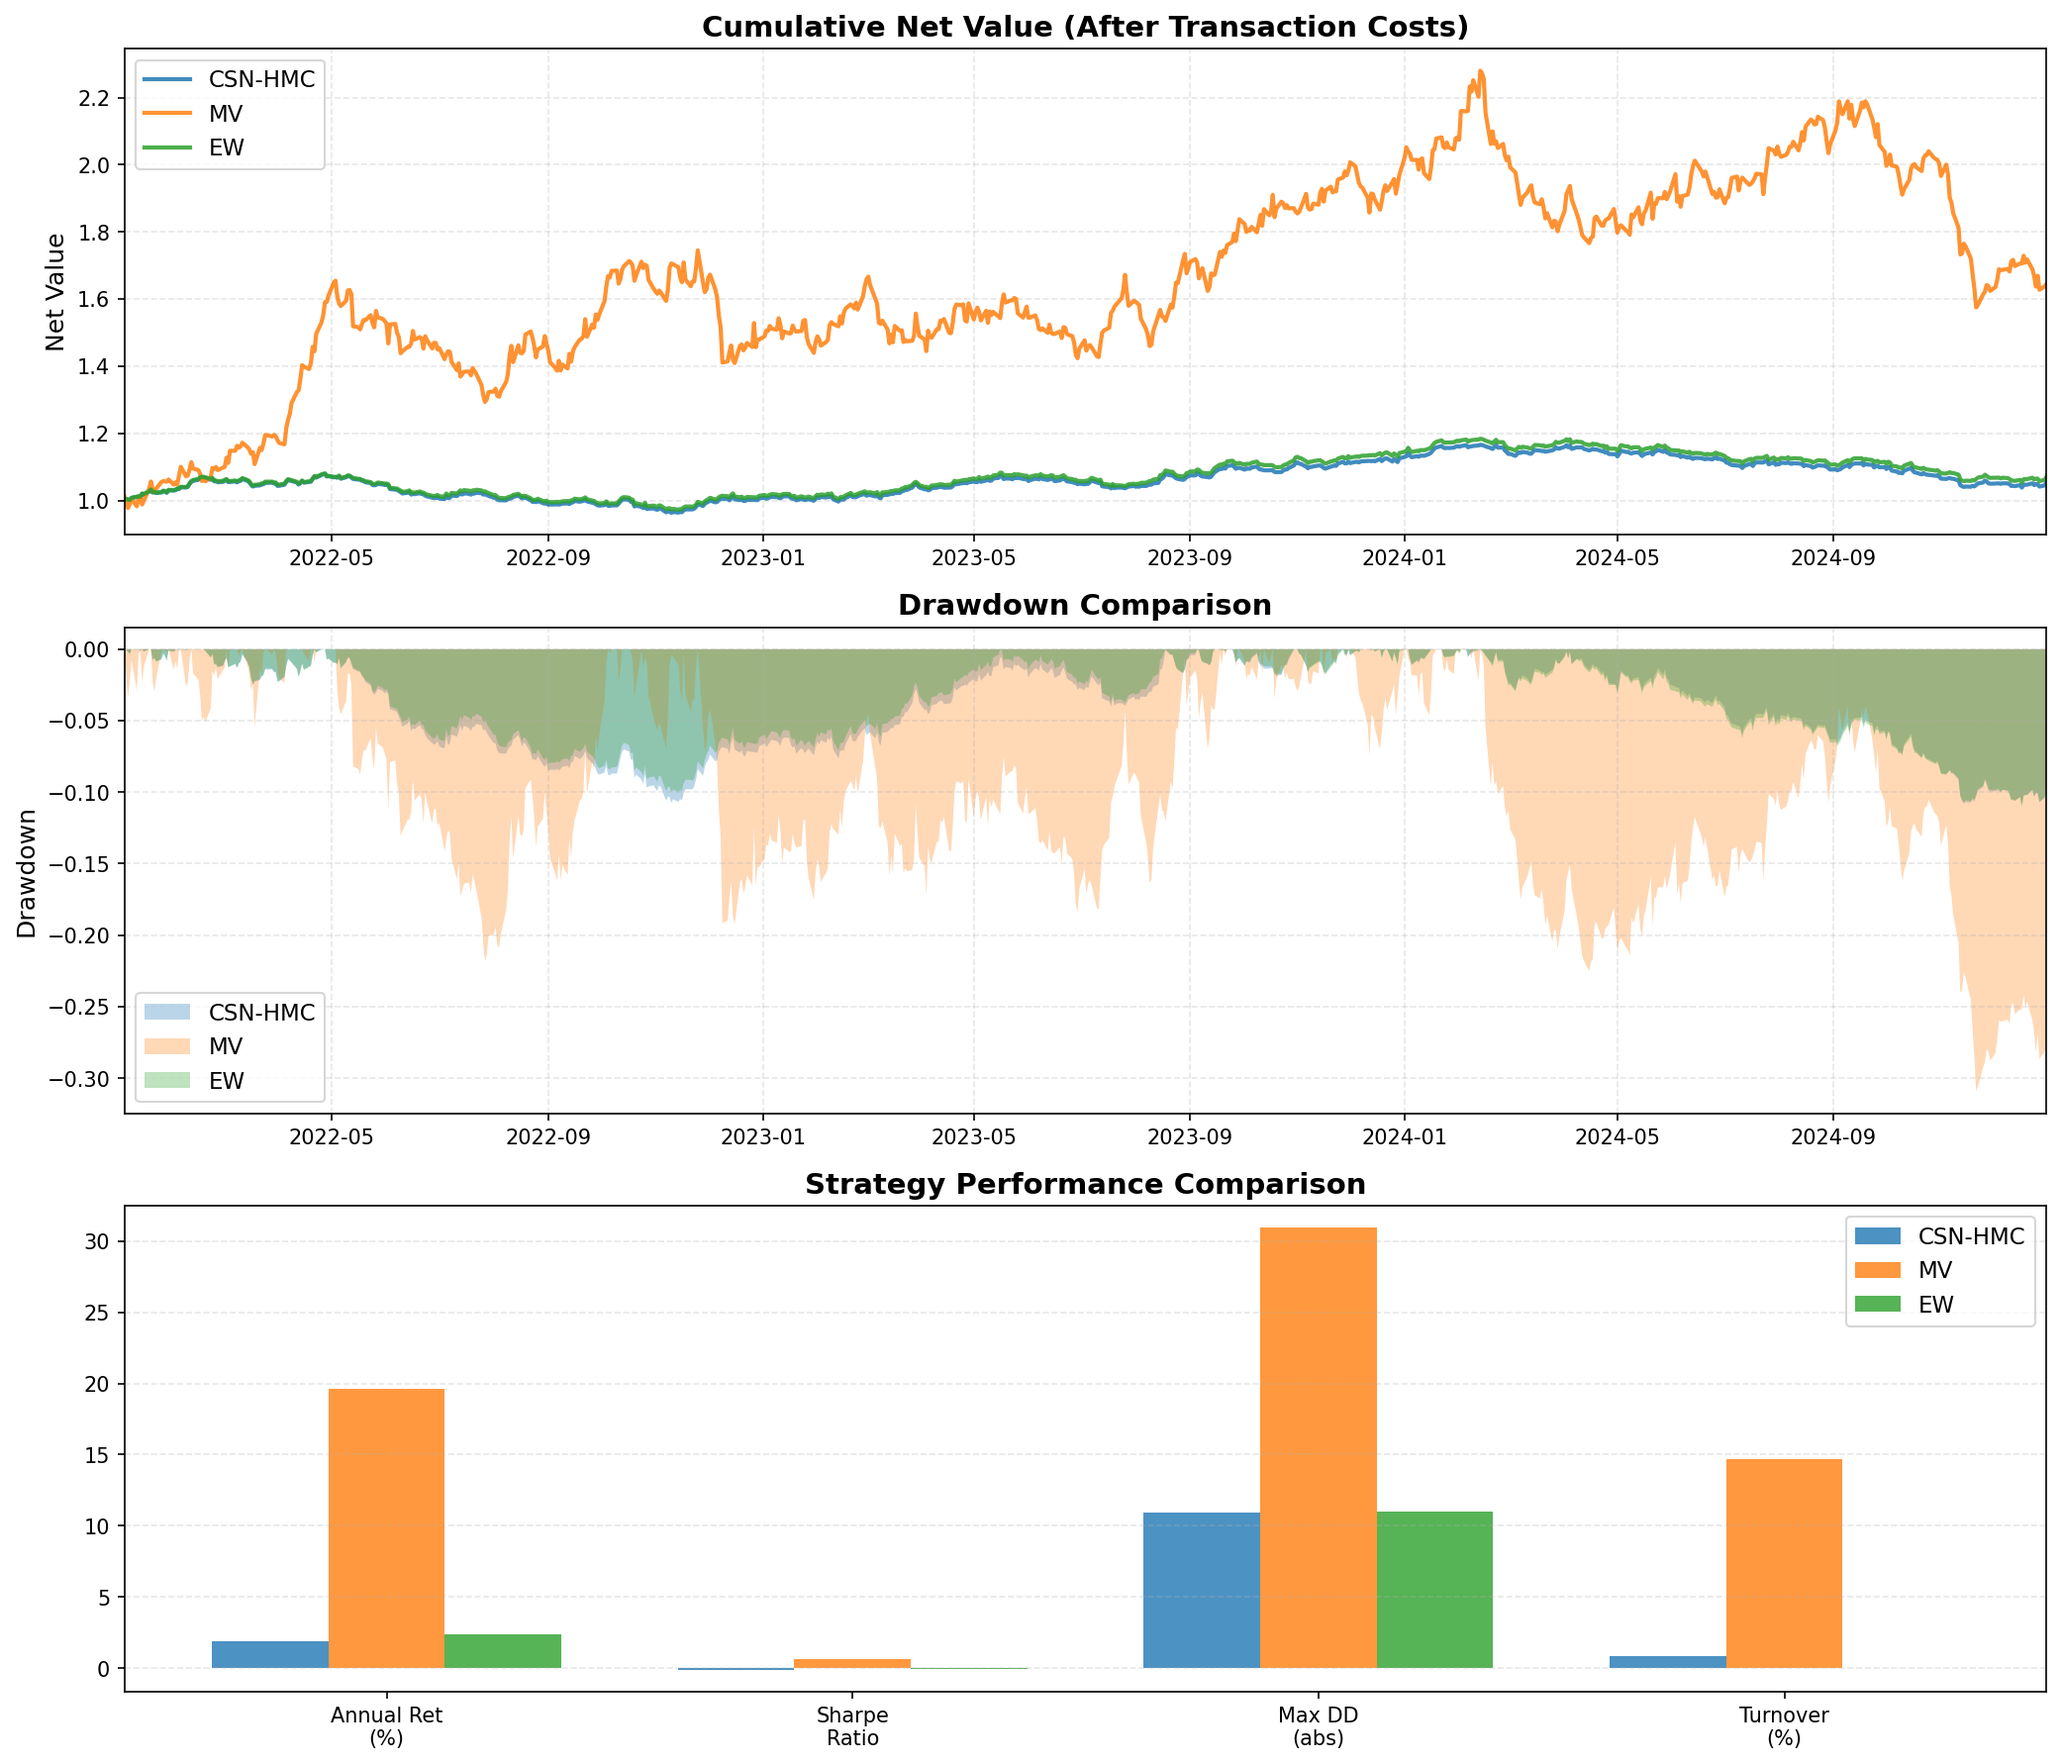
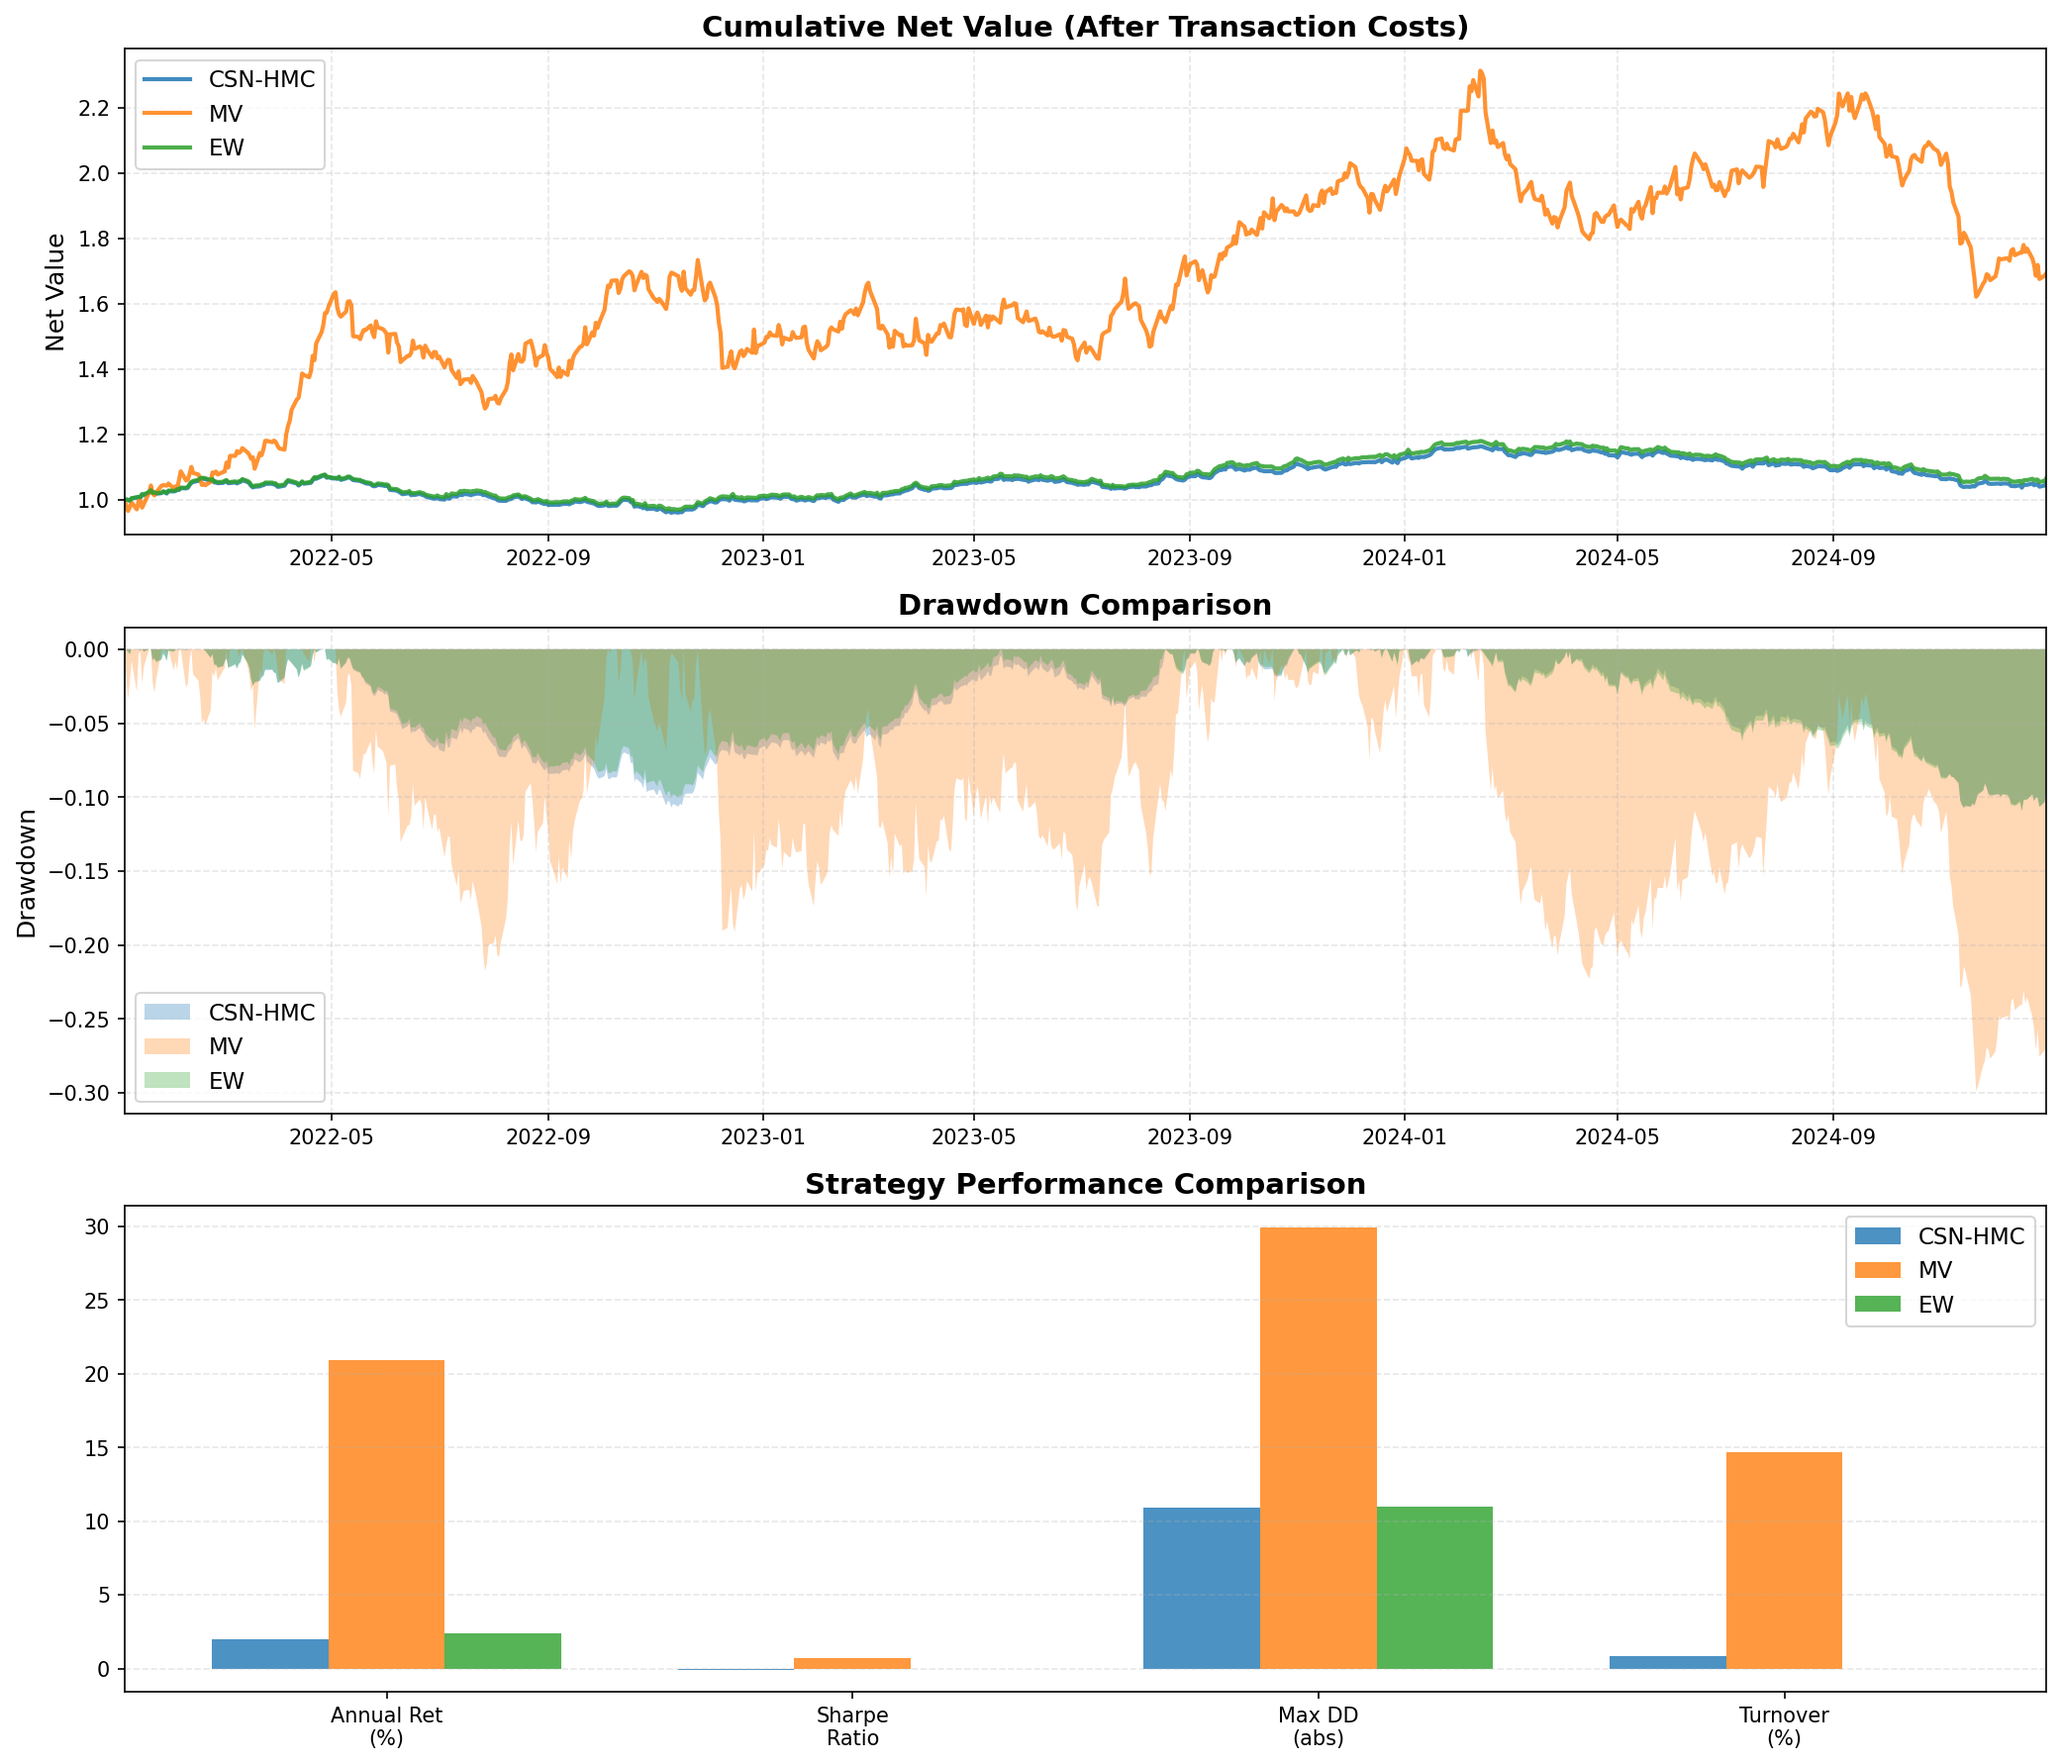
feat: 阅读仓库内容

diff --git a/v1.0.py b/v1.0.py
@@ -786,14 +786,15 @@ def rolling_backtest(returns_df: pd.DataFrame, cfg: Config) -> Tuple[pd.DataFram
     rebalance_weight_eq = w_eq.loc[rebalance_dates].dropna(how='all')
     
     # 计算调仓日的权重变化
-    weight_change_csn = rebalance_weight_csn.diff().abs().sum(axis=1).fillna(0.0)
-    weight_change_mv = rebalance_weight_mv.diff().abs().sum(axis=1).fillna(0.0)
-    weight_change_eq = rebalance_weight_eq.diff().abs().sum(axis=1).fillna(0.0)
+    # 换手率 = 0.5 × |w_new - w_old| 的绝对值之和
+    weight_change_csn = 0.5 * rebalance_weight_csn.diff().abs().sum(axis=1).fillna(0.0)
+    weight_change_mv = 0.5 * rebalance_weight_mv.diff().abs().sum(axis=1).fillna(0.0)
+    weight_change_eq = 0.5 * rebalance_weight_eq.diff().abs().sum(axis=1).fillna(0.0)
     
     # 将权重变化映射回完整的日期序列（交易成本在调仓日之后的第一个交易日扣除）
-    tc_csn = pd.Series(0.0, index=dates)
-    tc_mv = pd.Series(0.0, index=dates)
-    tc_eq = pd.Series(0.0, index=dates)
+    turnover_csn = pd.Series(0.0, index=dates)
+    turnover_mv = pd.Series(0.0, index=dates)
+    turnover_eq = pd.Series(0.0, index=dates)
     
     for idx, date in enumerate(rebalance_dates):
         if idx == 0:
@@ -801,16 +802,11 @@ def rolling_backtest(returns_df: pd.DataFrame, cfg: Config) -> Tuple[pd.DataFram
         next_pos = _next_trading_position(dates, date)
         if next_pos < len(dates):
             next_date = dates[next_pos]
-            if next_date in tc_csn.index:
-                tc_csn.loc[next_date] = weight_change_csn.get(date, 0.0)
-                tc_mv.loc[next_date] = weight_change_mv.get(date, 0.0)
-                tc_eq.loc[next_date] = weight_change_eq.get(date, 0.0)
+            if next_date in turnover_csn.index:
+                turnover_csn.loc[next_date] = weight_change_csn.get(date, 0.0)
+                turnover_mv.loc[next_date] = weight_change_mv.get(date, 0.0)
+                turnover_eq.loc[next_date] = weight_change_eq.get(date, 0.0)
     
-    # 应用交易成本系数
-    tc_csn = cfg.transaction_cost * tc_csn
-    tc_mv = cfg.transaction_cost * tc_mv
-    tc_eq = cfg.transaction_cost * tc_eq
-
     # 计算组合收益（使用滞后一期的权重）
     lag_csn = w_csn.shift(1).bfill()
     lag_mv = w_mv.shift(1).bfill()
@@ -820,19 +816,36 @@ def rolling_backtest(returns_df: pd.DataFrame, cfg: Config) -> Tuple[pd.DataFram
     gross_mv = (returns_df * lag_mv).sum(axis=1)
     gross_eq = (returns_df * lag_eq).sum(axis=1)
 
-    net_csn = gross_csn - tc_csn
-    net_mv = gross_mv - tc_mv
-    net_eq = gross_eq - tc_eq
+    # 正确的复利计算：交易成本按比例减少资金
+    # 
+    # 交易过程：
+    # 1. 调仓日收盘后：资金变为 1 × (1 - turnover × cost)
+    # 2. 次日开始用剩余资金投资
+    # 3. 次日收益：剩余资金 × (1 + 日收益率)
+    #
+    # 正确公式：
+    # value_t = value_{t-1} × (1 + r_t) × (1 - turnover_{t-1} × cost)
+    #
+    # 日收益因子 = (1 + gross_return) × (1 - turnover × cost_rate)
+    
+    # 日收益因子（考虑交易成本）
+    daily_factor_csn = (1.0 + gross_csn) * (1.0 - turnover_csn * cfg.transaction_cost)
+    daily_factor_mv = (1.0 + gross_mv) * (1.0 - turnover_mv * cfg.transaction_cost)
+    daily_factor_eq = (1.0 + gross_eq) * (1.0 - turnover_eq * cfg.transaction_cost)
 
-    curves = {
-        "CSN-HMC": (1.0 + net_csn).cumprod(),
-        "MV": (1.0 + net_mv).cumprod(),
-        "EW": (1.0 + net_eq).cumprod(),
-    }
+    # 净值曲线（从索引1开始累积，索引0为初始资金1.0）
+    curves = {}
+    for name, factor in [("CSN-HMC", daily_factor_csn), ("MV", daily_factor_mv), ("EW", daily_factor_eq)]:
+        cumprod_series = pd.Series(1.0, index=factor.index)
+        for i in range(1, len(factor)):
+            cumprod_series.iloc[i] = cumprod_series.iloc[i-1] * factor.iloc[i]
+        curves[name] = cumprod_series
+    
+    # 日收益率
     dailies = {
-        "CSN-HMC": net_csn,
-        "MV": net_mv,
-        "EW": net_eq,
+        "CSN-HMC": daily_factor_csn - 1.0,
+        "MV": daily_factor_mv - 1.0,
+        "EW": daily_factor_eq - 1.0,
     }
 
     diag_df = pd.DataFrame(diag_rows).set_index("rebalance_date")

diff --git a/run_demo.py b/run_demo.py
@@ -339,13 +339,15 @@ rebalance_weight_csn = w_csn.loc[[r for r in rebalance_dates if r in w_csn.index
 rebalance_weight_mv = w_mv.loc[[r for r in rebalance_dates if r in w_mv.index]].dropna(how='all')
 rebalance_weight_eq = w_eq.loc[[r for r in rebalance_dates if r in w_eq.index]].dropna(how='all')
 
-weight_change_csn = rebalance_weight_csn.diff().abs().sum(axis=1).fillna(0.0)
-weight_change_mv = rebalance_weight_mv.diff().abs().sum(axis=1).fillna(0.0)
-weight_change_eq = rebalance_weight_eq.diff().abs().sum(axis=1).fillna(0.0)
+# 换手率 = 0.5 × |w_new - w_old| 的绝对值之和
+weight_change_csn = 0.5 * rebalance_weight_csn.diff().abs().sum(axis=1).fillna(0.0)
+weight_change_mv = 0.5 * rebalance_weight_mv.diff().abs().sum(axis=1).fillna(0.0)
+weight_change_eq = 0.5 * rebalance_weight_eq.diff().abs().sum(axis=1).fillna(0.0)
 
-tc_csn = pd.Series(0.0, index=dates)
-tc_mv = pd.Series(0.0, index=dates)
-tc_eq = pd.Series(0.0, index=dates)
+# 将权重变化映射回完整的日期序列
+turnover_csn = pd.Series(0.0, index=dates)
+turnover_mv = pd.Series(0.0, index=dates)
+turnover_eq = pd.Series(0.0, index=dates)
 
 for idx, date in enumerate(rebalance_dates):
     if idx == 0:
@@ -353,14 +355,11 @@ for idx, date in enumerate(rebalance_dates):
     next_pos = _next_trading_position(dates, date)
     if next_pos < len(dates):
         next_date = dates[next_pos]
-        tc_csn.loc[next_date] = weight_change_csn.get(date, 0.0)
-        tc_mv.loc[next_date] = weight_change_mv.get(date, 0.0)
-        tc_eq.loc[next_date] = weight_change_eq.get(date, 0.0)
+        turnover_csn.loc[next_date] = weight_change_csn.get(date, 0.0)
+        turnover_mv.loc[next_date] = weight_change_mv.get(date, 0.0)
+        turnover_eq.loc[next_date] = weight_change_eq.get(date, 0.0)
 
-tc_csn = cfg.transaction_cost * tc_csn
-tc_mv = cfg.transaction_cost * tc_mv
-tc_eq = cfg.transaction_cost * tc_eq
-
+# 计算组合收益
 lag_csn = w_csn.shift(1).bfill()
 lag_mv = w_mv.shift(1).bfill()
 lag_eq = w_eq.shift(1).bfill()
@@ -369,12 +368,33 @@ gross_csn = (returns_df * lag_csn).sum(axis=1)
 gross_mv = (returns_df * lag_mv).sum(axis=1)
 gross_eq = (returns_df * lag_eq).sum(axis=1)
 
-net_csn = gross_csn - tc_csn
-net_mv = gross_mv - tc_mv
-net_eq = gross_eq - tc_eq
+# 正确的复利计算：交易成本按比例减少资金
+# 交易过程：
+# 1. 调仓日收盘后：资金变为 1 × (1 - turnover × cost)
+# 2. 次日开始用剩余资金投资
+# 正确公式：
+# value_t = value_{t-1} × (1 + r_t) × (1 - turnover_{t-1} × cost)
+# 日收益因子 = (1 + gross_return) × (1 - turnover × cost_rate)
 
-curves = {"CSN-HMC": (1 + net_csn).cumprod(), "MV": (1 + net_mv).cumprod(), "EW": (1 + net_eq).cumprod()}
-dailies = {"CSN-HMC": net_csn, "MV": net_mv, "EW": net_eq}
+daily_factor_csn = (1.0 + gross_csn) * (1.0 - turnover_csn * cfg.transaction_cost)
+daily_factor_mv = (1.0 + gross_mv) * (1.0 - turnover_mv * cfg.transaction_cost)
+daily_factor_eq = (1.0 + gross_eq) * (1.0 - turnover_eq * cfg.transaction_cost)
+
+# 净值曲线（从索引1开始累积，索引0为初始资金1.0）
+curves = {}
+for name, factor in [("CSN-HMC", daily_factor_csn), ("MV", daily_factor_mv), ("EW", daily_factor_eq)]:
+    cumprod_series = pd.Series(1.0, index=factor.index)
+    for i in range(1, len(factor)):
+        cumprod_series.iloc[i] = cumprod_series.iloc[i-1] * factor.iloc[i]
+    curves[name] = cumprod_series
+
+# 日收益率
+dailies = {
+    "CSN-HMC": daily_factor_csn - 1.0,
+    "MV": daily_factor_mv - 1.0,
+    "EW": daily_factor_eq - 1.0,
+}
+
 diag_df = pd.DataFrame(diag_rows).set_index("rebalance_date")
 weight_df = pd.DataFrame(weight_rows).set_index("rebalance_date")
 
